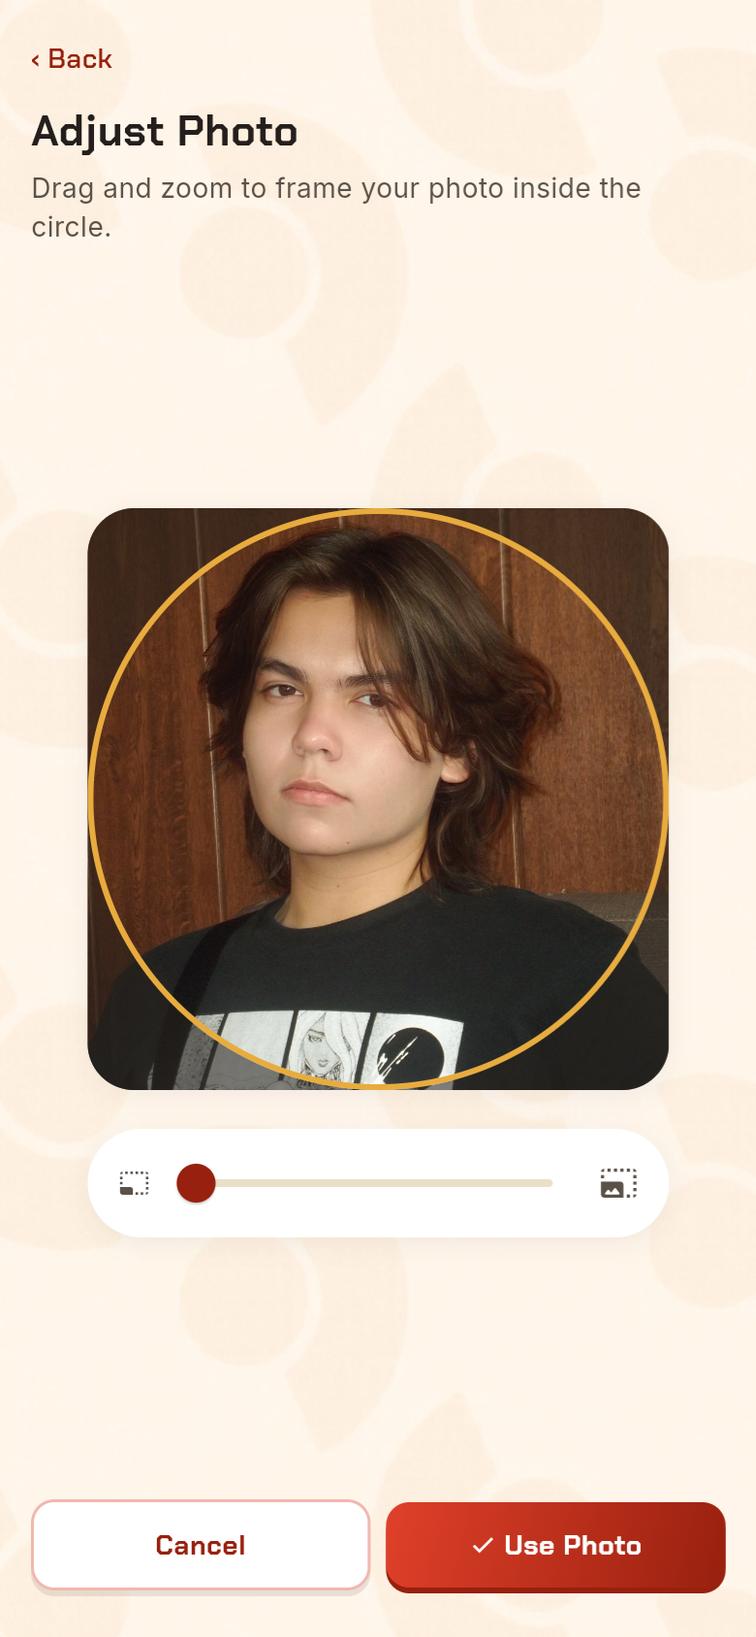
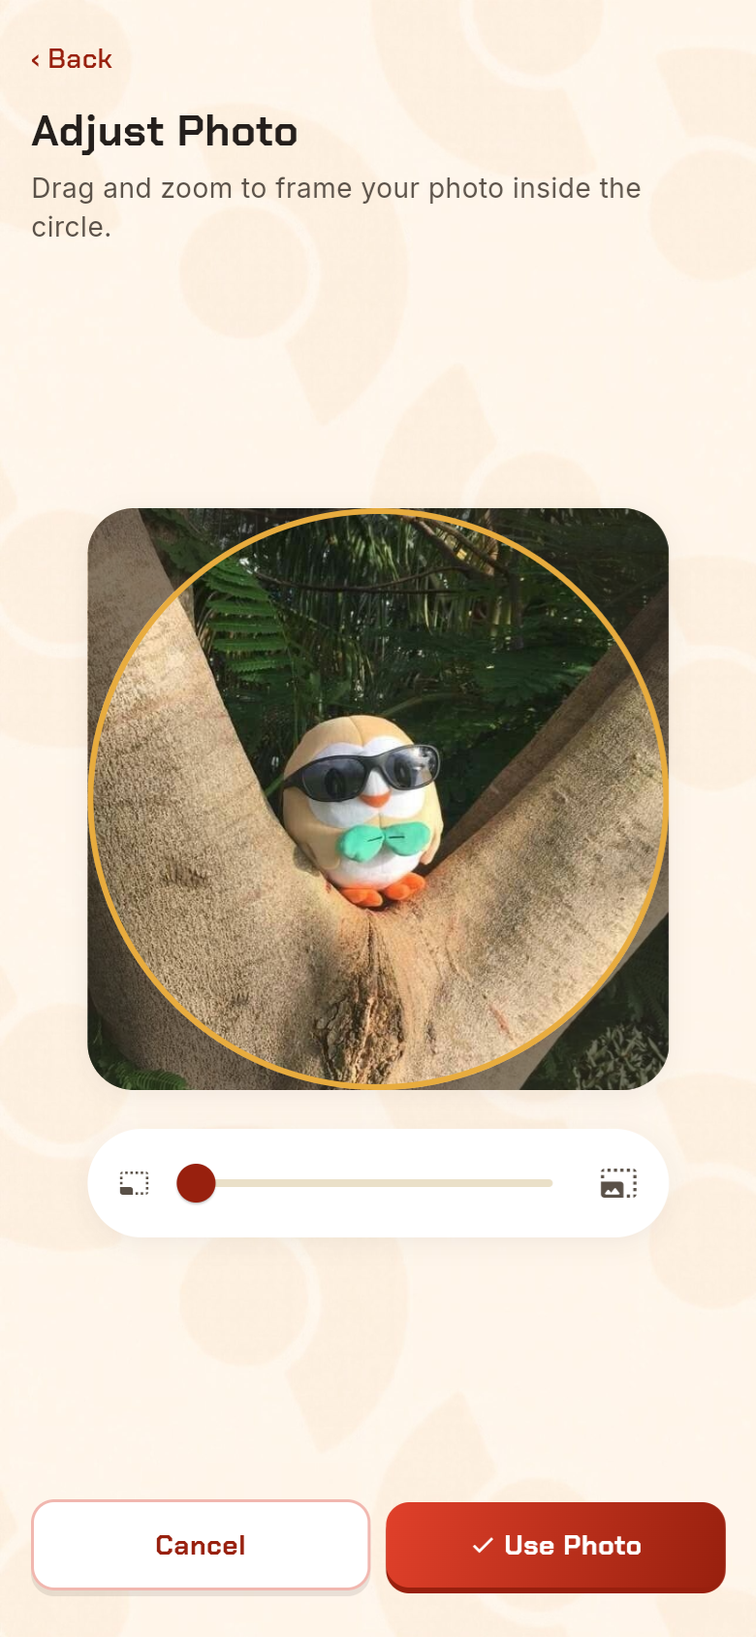
Add input length limits, fix placeholder contrast, update docs

Changed region(s): [[0.0923, 0.3081, 0.8923, 0.6777]]

diff --git a/docs/02-mockup.md b/docs/02-mockup.md
@@ -12,7 +12,7 @@ Screens opened from a bottom-navigation tab show a **‹ Back** link instead of 
 <tr><th width="260">Screen</th><th>Screen Details</th></tr>
 
 <tr>
-<td><b>01 · Login</b><br>Authentication · Wireframe page 6<br><br><img src="screenshots/01-login.png" width="240" alt="Login screen"><br><sub><a href="screenshots/01-login.png">01-login.png</a></sub></td>
+<td><b>01 · Login</b><br>Authentication · Wireframe page 6<br><br><img src="assets/screenshots/01-login.png" width="240" alt="Login screen"><br><sub><a href="assets/screenshots/01-login.png">01-login.png</a></sub></td>
 <td>
 
 **Purpose**
@@ -31,7 +31,7 @@ Shown when the app is launched while signed out, and after signing out from the 
 </tr>
 
 <tr>
-<td><b>02 · Sign Up</b><br>Authentication · Wireframe page 6<br><br><img src="screenshots/02-sign-up.png" width="240" alt="Sign Up screen"><br><sub><a href="screenshots/02-sign-up.png">02-sign-up.png</a></sub></td>
+<td><b>02 · Sign Up</b><br>Authentication · Wireframe page 6<br><br><img src="assets/screenshots/02-sign-up.png" width="240" alt="Sign Up screen"><br><sub><a href="assets/screenshots/02-sign-up.png">02-sign-up.png</a></sub></td>
 <td>
 
 **Purpose**
@@ -48,7 +48,7 @@ Reached from 01 Login through **Sign Up**.
 </tr>
 
 <tr>
-<td><b>03 · Forgot Password</b><br>Authentication · Wireframe page 6<br><br><img src="screenshots/03-forgot-password.png" width="240" alt="Forgot Password screen"><br><sub><a href="screenshots/03-forgot-password.png">03-forgot-password.png</a></sub></td>
+<td><b>03 · Forgot Password</b><br>Authentication · Wireframe page 6<br><br><img src="assets/screenshots/03-forgot-password.png" width="240" alt="Forgot Password screen"><br><sub><a href="assets/screenshots/03-forgot-password.png">03-forgot-password.png</a></sub></td>
 <td>
 
 **Purpose**
@@ -67,7 +67,7 @@ Reached only from 01 Login through **Forgot Password**.
 </tr>
 
 <tr>
-<td><b>04 · Home Dashboard</b><br>Home & Profile · Wireframe page 6<br><br><img src="screenshots/04-home-dashboard.png" width="240" alt="Home Dashboard"><br><sub><a href="screenshots/04-home-dashboard.png">04-home-dashboard.png</a></sub></td>
+<td><b>04 · Home Dashboard</b><br>Home & Profile · Wireframe page 6<br><br><img src="assets/screenshots/04-home-dashboard.png" width="240" alt="Home Dashboard"><br><sub><a href="assets/screenshots/04-home-dashboard.png">04-home-dashboard.png</a></sub></td>
 <td>
 
 **Purpose**
@@ -89,7 +89,7 @@ Reached after login or account creation. It is the Home tab and the app's landin
 </tr>
 
 <tr>
-<td><b>05 · Trainer Card (Profile)</b><br>Home & Profile · Wireframe page 6<br><br><img src="screenshots/05-trainer-card.png" width="240" alt="Trainer Card"><br><sub><a href="screenshots/05-trainer-card.png">05-trainer-card.png</a></sub></td>
+<td><b>05 · Trainer Card (Profile)</b><br>Home & Profile · Wireframe page 6<br><br><img src="assets/screenshots/05-trainer-card.png" width="240" alt="Trainer Card"><br><sub><a href="assets/screenshots/05-trainer-card.png">05-trainer-card.png</a></sub></td>
 <td>
 
 **Purpose**
@@ -107,7 +107,7 @@ Reached from the More tab or from the avatar on the Home Dashboard.
 </tr>
 
 <tr>
-<td><b>06 · Edit Trainer Card</b><br>Home & Profile · Wireframe page 6<br><br><img src="screenshots/06-edit-trainer-card.png" width="240" alt="Edit Trainer Card"><br><sub><a href="screenshots/06-edit-trainer-card.png">06-edit-trainer-card.png</a></sub></td>
+<td><b>06 · Edit Trainer Card</b><br>Home & Profile · Wireframe page 6<br><br><img src="assets/screenshots/06-edit-trainer-card.png" width="240" alt="Edit Trainer Card"><br><sub><a href="assets/screenshots/06-edit-trainer-card.png">06-edit-trainer-card.png</a></sub></td>
 <td>
 
 **Purpose**
@@ -127,7 +127,7 @@ Reached from 05 Trainer Card through **✎ Edit**.
 </tr>
 
 <tr>
-<td><b>07 · Adjust Photo</b><br>Home & Profile · New: Not in the wireframes<br><br><img src="screenshots/07-adjust-photo.png" width="240" alt="Adjust Photo"><br><sub><a href="screenshots/07-adjust-photo.png">07-adjust-photo.png</a></sub></td>
+<td><b>07 · Adjust Photo</b><br>Home & Profile · New: Not in the wireframes<br><br><img src="assets/screenshots/07-adjust-photo.png" width="240" alt="Adjust Photo"><br><sub><a href="assets/screenshots/07-adjust-photo.png">07-adjust-photo.png</a></sub></td>
 <td>
 
 **Purpose**
@@ -144,7 +144,7 @@ Reached from 06 Edit Trainer Card after choosing a photo. The photo is stored in
 </tr>
 
 <tr>
-<td><b>08 · Choose Favorite Card</b><br>Home & Profile · New: Not in the wireframes<br><br><img src="screenshots/08-choose-favorite-card.png" width="240" alt="Choose Favorite Card"><br><sub><a href="screenshots/08-choose-favorite-card.png">08-choose-favorite-card.png</a></sub></td>
+<td><b>08 · Choose Favorite Card</b><br>Home & Profile · New: Not in the wireframes<br><br><img src="assets/screenshots/08-choose-favorite-card.png" width="240" alt="Choose Favorite Card"><br><sub><a href="assets/screenshots/08-choose-favorite-card.png">08-choose-favorite-card.png</a></sub></td>
 <td>
 
 **Purpose**
@@ -161,7 +161,7 @@ Reached from **Favorite Card** on 06 Edit Trainer Card.
 </tr>
 
 <tr>
-<td><b>09 · Binders</b><br>Collection & Binders · Wireframe page 7<br><br><img src="screenshots/09-binders.png" width="240" alt="Binders"><br><sub><a href="screenshots/09-binders.png">09-binders.png</a></sub></td>
+<td><b>09 · Binders</b><br>Collection & Binders · Wireframe page 7<br><br><img src="assets/screenshots/09-binders.png" width="240" alt="Binders"><br><sub><a href="assets/screenshots/09-binders.png">09-binders.png</a></sub></td>
 <td>
 
 **Purpose**
@@ -181,7 +181,7 @@ Reached through the Binders tab, the **Binders** tile or **Continue a Binder** p
 </tr>
 
 <tr>
-<td><b>10 · Create Binder</b><br>Collection & Binders · Wireframe page 7<br><br><img src="screenshots/10-create-binder.png" width="240" alt="Create Binder"><br><sub><a href="screenshots/10-create-binder.png">10-create-binder.png</a></sub></td>
+<td><b>10 · Create Binder</b><br>Collection & Binders · Wireframe page 7<br><br><img src="assets/screenshots/10-create-binder.png" width="240" alt="Create Binder"><br><sub><a href="assets/screenshots/10-create-binder.png">10-create-binder.png</a></sub></td>
 <td>
 
 **Purpose**
@@ -199,7 +199,7 @@ Opened from 09 Binders or from **+ New Binder** on the Home Dashboard.
 </tr>
 
 <tr>
-<td><b>11 · Binder Details</b><br>Collection & Binders · New: Not in the wireframes<br><br><img src="screenshots/11-binder-details.png" width="240" alt="Binder Details"><br><sub><a href="screenshots/11-binder-details.png">11-binder-details.png</a></sub></td>
+<td><b>11 · Binder Details</b><br>Collection & Binders · New: Not in the wireframes<br><br><img src="assets/screenshots/11-binder-details.png" width="240" alt="Binder Details"><br><sub><a href="assets/screenshots/11-binder-details.png">11-binder-details.png</a></sub></td>
 <td>
 
 **Purpose**
@@ -219,7 +219,7 @@ Reached from 09 Binders after selecting a binder, or from **Continue a Binder** 
 </tr>
 
 <tr>
-<td><b>12 · Add Cards (Binder)</b><br>Collection & Binders · New: Not in the wireframes<br><br><img src="screenshots/12-add-card-binder.png" width="240" alt="Add Cards to a binder"><br><sub><a href="screenshots/12-add-card-binder.png">12-add-card-binder.png</a></sub></td>
+<td><b>12 · Add Cards (Binder)</b><br>Collection & Binders · New: Not in the wireframes<br><br><img src="assets/screenshots/12-add-card-binder.png" width="240" alt="Add Cards to a binder"><br><sub><a href="assets/screenshots/12-add-card-binder.png">12-add-card-binder.png</a></sub></td>
 <td>
 
 **Purpose**
@@ -237,7 +237,7 @@ Reached from the **Add Cards** tile on 11 Binder Details.
 </tr>
 
 <tr>
-<td><b>13 · Edit Binder</b><br>Collection & Binders · Wireframe page 7<br><br><img src="screenshots/13-edit-binder.png" width="240" alt="Edit Binder"><br><sub><a href="screenshots/13-edit-binder.png">13-edit-binder.png</a></sub></td>
+<td><b>13 · Edit Binder</b><br>Collection & Binders · Wireframe page 7<br><br><img src="assets/screenshots/13-edit-binder.png" width="240" alt="Edit Binder"><br><sub><a href="assets/screenshots/13-edit-binder.png">13-edit-binder.png</a></sub></td>
 <td>
 
 **Purpose**
@@ -254,7 +254,7 @@ Reached from **✎ Edit** on 11 Binder Details.
 </tr>
 
 <tr>
-<td><b>14 · All Cards</b><br>Collection & Binders · Wireframe page 7<br><br><img src="screenshots/14-all-cards.png" width="240" alt="All Cards"><br><sub><a href="screenshots/14-all-cards.png">14-all-cards.png</a></sub></td>
+<td><b>14 · All Cards</b><br>Collection & Binders · Wireframe page 7<br><br><img src="assets/screenshots/14-all-cards.png" width="240" alt="All Cards"><br><sub><a href="assets/screenshots/14-all-cards.png">14-all-cards.png</a></sub></td>
 <td>
 
 **Purpose**
@@ -273,7 +273,7 @@ Reached from the **Cards** tile, the search bar, or **View All** on the Home Das
 </tr>
 
 <tr>
-<td><b>15 · Card Details</b><br>Collection & Binders · Wireframe page 7<br><br><img src="screenshots/15-card-details.png" width="240" alt="Card Details"><br><sub><a href="screenshots/15-card-details.png">15-card-details.png</a></sub></td>
+<td><b>15 · Card Details</b><br>Collection & Binders · Wireframe page 7<br><br><img src="assets/screenshots/15-card-details.png" width="240" alt="Card Details"><br><sub><a href="assets/screenshots/15-card-details.png">15-card-details.png</a></sub></td>
 <td>
 
 **Purpose**
@@ -292,7 +292,7 @@ Reached from Home, Binders, Binder Details, All Cards, and the card pickers.
 </tr>
 
 <tr>
-<td><b>16 · Edit Card</b><br>Card Entry · Wireframe page 8<br><br><img src="screenshots/16-edit-card.png" width="240" alt="Edit Card"><br><sub><a href="screenshots/16-edit-card.png">16-edit-card.png</a></sub></td>
+<td><b>16 · Edit Card</b><br>Card Entry · Wireframe page 8<br><br><img src="assets/screenshots/16-edit-card.png" width="240" alt="Edit Card"><br><sub><a href="assets/screenshots/16-edit-card.png">16-edit-card.png</a></sub></td>
 <td>
 
 **Purpose**
@@ -310,7 +310,7 @@ Reached from **✎ Edit** on 15 Card Details.
 </tr>
 
 <tr>
-<td><b>17 · Add Card (Find Your Card)</b><br>Card Entry · Wireframe page 8, reworked<br><br><img src="screenshots/17-add-card.png" width="240" alt="Add Card: Find Your Card"><br><sub><a href="screenshots/17-add-card.png">17-add-card.png</a></sub></td>
+<td><b>17 · Add Card (Find Your Card)</b><br>Card Entry · Wireframe page 8, reworked<br><br><img src="assets/screenshots/17-add-card.png" width="240" alt="Add Card: Find Your Card"><br><sub><a href="assets/screenshots/17-add-card.png">17-add-card.png</a></sub></td>
 <td>
 
 **Purpose**
@@ -328,7 +328,7 @@ Reached through the raised **Add** button in the navigation bar or **+ Add a New
 </tr>
 
 <tr>
-<td><b>18 · Add to Collection</b><br>Card Entry · Wireframe page 8<br><br><img src="screenshots/18-add-to-collection.png" width="240" alt="Add to Collection"><br><sub><a href="screenshots/18-add-to-collection.png">18-add-to-collection.png</a></sub></td>
+<td><b>18 · Add to Collection</b><br>Card Entry · Wireframe page 8<br><br><img src="assets/screenshots/18-add-to-collection.png" width="240" alt="Add to Collection"><br><sub><a href="assets/screenshots/18-add-to-collection.png">18-add-to-collection.png</a></sub></td>
 <td>
 
 **Purpose**
@@ -346,7 +346,7 @@ Reached after choosing a card on 17 Add Card.
 </tr>
 
 <tr>
-<td><b>19 · Deck Planner</b><br>Deck Planner · Wireframe page 8<br><br><img src="screenshots/19-deck-planner.png" width="240" alt="Deck Planner"><br><sub><a href="screenshots/19-deck-planner.png">19-deck-planner.png</a></sub></td>
+<td><b>19 · Deck Planner</b><br>Deck Planner · Wireframe page 8<br><br><img src="assets/screenshots/19-deck-planner.png" width="240" alt="Deck Planner"><br><sub><a href="assets/screenshots/19-deck-planner.png">19-deck-planner.png</a></sub></td>
 <td>
 
 **Purpose**
@@ -364,7 +364,7 @@ Reached through the Decks tab or opened directly from a Home Dashboard shortcut.
 </tr>
 
 <tr>
-<td><b>20 · Create Deck</b><br>Deck Planner · Wireframe page 8<br><br><img src="screenshots/20-create-deck.png" width="240" alt="Create Deck"><br><sub><a href="screenshots/20-create-deck.png">20-create-deck.png</a></sub></td>
+<td><b>20 · Create Deck</b><br>Deck Planner · Wireframe page 8<br><br><img src="assets/screenshots/20-create-deck.png" width="240" alt="Create Deck"><br><sub><a href="assets/screenshots/20-create-deck.png">20-create-deck.png</a></sub></td>
 <td>
 
 **Purpose**
@@ -380,7 +380,7 @@ Reached from 19 Deck Planner, **+ New Deck** on the Home Dashboard, or when addi
 </tr>
 
 <tr>
-<td><b>21 · Deck Details</b><br>Deck Planner · New: Not in the wireframes<br><br><img src="screenshots/21-deck-details.png" width="240" alt="Deck Details"><br><sub><a href="screenshots/21-deck-details.png">21-deck-details.png</a></sub></td>
+<td><b>21 · Deck Details</b><br>Deck Planner · New: Not in the wireframes<br><br><img src="assets/screenshots/21-deck-details.png" width="240" alt="Deck Details"><br><sub><a href="assets/screenshots/21-deck-details.png">21-deck-details.png</a></sub></td>
 <td>
 
 **Purpose**
@@ -399,7 +399,7 @@ Reached from 19 Deck Planner after selecting or creating a deck.
 </tr>
 
 <tr>
-<td><b>22 · Add Cards (Deck)</b><br>Deck Planner · New: Not in the wireframes<br><br><img src="screenshots/22-add-card-deck.png" width="240" alt="Add Cards to a deck"><br><sub><a href="screenshots/22-add-card-deck.png">22-add-card-deck.png</a></sub></td>
+<td><b>22 · Add Cards (Deck)</b><br>Deck Planner · New: Not in the wireframes<br><br><img src="assets/screenshots/22-add-card-deck.png" width="240" alt="Add Cards to a deck"><br><sub><a href="assets/screenshots/22-add-card-deck.png">22-add-card-deck.png</a></sub></td>
 <td>
 
 **Purpose**
@@ -415,7 +415,7 @@ Reached from **+ Add Card** on 21 Deck Details.
 </tr>
 
 <tr>
-<td><b>23 · More</b><br>More · Wireframe page 8<br><br><img src="screenshots/23-more.png" width="240" alt="More"><br><sub><a href="screenshots/23-more.png">23-more.png</a></sub></td>
+<td><b>23 · More</b><br>More · Wireframe page 8<br><br><img src="assets/screenshots/23-more.png" width="240" alt="More"><br><sub><a href="assets/screenshots/23-more.png">23-more.png</a></sub></td>
 <td>
 
 **Purpose**
@@ -434,7 +434,7 @@ Reached through the More tab.
 </tr>
 
 <tr>
-<td><b>24 · Collection Statistics</b><br>More · Wireframe page 9<br><br><img src="screenshots/24-collection-statistics.png" width="240" alt="Collection Statistics"><br><sub><a href="screenshots/24-collection-statistics.png">24-collection-statistics.png</a></sub></td>
+<td><b>24 · Collection Statistics</b><br>More · Wireframe page 9<br><br><img src="assets/screenshots/24-collection-statistics.png" width="240" alt="Collection Statistics"><br><sub><a href="assets/screenshots/24-collection-statistics.png">24-collection-statistics.png</a></sub></td>
 <td>
 
 **Purpose**
@@ -451,7 +451,7 @@ Reached from 23 More or from the **Value** tile on the Home Dashboard.
 </tr>
 
 <tr>
-<td><b>25 · Wishlist</b><br>More · Wireframe page 9<br><br><img src="screenshots/25-wishlist.png" width="240" alt="Wishlist"><br><sub><a href="screenshots/25-wishlist.png">25-wishlist.png</a></sub></td>
+<td><b>25 · Wishlist</b><br>More · Wireframe page 9<br><br><img src="assets/screenshots/25-wishlist.png" width="240" alt="Wishlist"><br><sub><a href="assets/screenshots/25-wishlist.png">25-wishlist.png</a></sub></td>
 <td>
 
 **Purpose**
@@ -471,7 +471,7 @@ Reached from **Wishlist & Trade List** on 23 More.
 </tr>
 
 <tr>
-<td><b>26 · Add Card (Wishlist)</b><br>More · Wireframe page 9, reworked<br><br><img src="screenshots/26-add-card-wishlist.png" width="240" alt="Add Card to Wishlist"><br><sub><a href="screenshots/26-add-card-wishlist.png">26-add-card-wishlist.png</a></sub></td>
+<td><b>26 · Add Card (Wishlist)</b><br>More · Wireframe page 9, reworked<br><br><img src="assets/screenshots/26-add-card-wishlist.png" width="240" alt="Add Card to Wishlist"><br><sub><a href="assets/screenshots/26-add-card-wishlist.png">26-add-card-wishlist.png</a></sub></td>
 <td>
 
 **Purpose**
@@ -488,7 +488,7 @@ Reached from **+ Add to Wishlist** on 25 Wishlist.
 </tr>
 
 <tr>
-<td><b>27 · Edit Wishlist Card</b><br>More · New: Not in the wireframes<br><br><img src="screenshots/27-edit-wishlist-card.png" width="240" alt="Edit Wishlist Card"><br><sub><a href="screenshots/27-edit-wishlist-card.png">27-edit-wishlist-card.png</a></sub></td>
+<td><b>27 · Edit Wishlist Card</b><br>More · New: Not in the wireframes<br><br><img src="assets/screenshots/27-edit-wishlist-card.png" width="240" alt="Edit Wishlist Card"><br><sub><a href="assets/screenshots/27-edit-wishlist-card.png">27-edit-wishlist-card.png</a></sub></td>
 <td>
 
 **Purpose**
@@ -505,7 +505,7 @@ Reached by selecting an entry on 25 Wishlist.
 </tr>
 
 <tr>
-<td><b>28 · Trade List</b><br>More · Wireframe page 9<br><br><img src="screenshots/28-trade-list.png" width="240" alt="Trade List"><br><sub><a href="screenshots/28-trade-list.png">28-trade-list.png</a></sub></td>
+<td><b>28 · Trade List</b><br>More · Wireframe page 9<br><br><img src="assets/screenshots/28-trade-list.png" width="240" alt="Trade List"><br><sub><a href="assets/screenshots/28-trade-list.png">28-trade-list.png</a></sub></td>
 <td>
 
 **Purpose**
@@ -525,7 +525,7 @@ Reached by switching tabs from 25 Wishlist.
 </tr>
 
 <tr>
-<td><b>29 · Add Cards (Trade List)</b><br>More · New: Not in the wireframes<br><br><img src="screenshots/29-add-card-trade-list.png" width="240" alt="Add Cards to the Trade List"><br><sub><a href="screenshots/29-add-card-trade-list.png">29-add-card-trade-list.png</a></sub></td>
+<td><b>29 · Add Cards (Trade List)</b><br>More · New: Not in the wireframes<br><br><img src="assets/screenshots/29-add-card-trade-list.png" width="240" alt="Add Cards to the Trade List"><br><sub><a href="assets/screenshots/29-add-card-trade-list.png">29-add-card-trade-list.png</a></sub></td>
 <td>
 
 **Purpose**
@@ -541,7 +541,7 @@ Reached from **+ Add to Trade List** on 28 Trade List.
 </tr>
 
 <tr>
-<td><b>30 · Edit Trade Entry</b><br>More · Wireframe page 9<br><br><img src="screenshots/30-edit-trade-list-card.png" width="240" alt="Edit Trade Entry"><br><sub><a href="screenshots/30-edit-trade-list-card.png">30-edit-trade-list-card.png</a></sub></td>
+<td><b>30 · Edit Trade Entry</b><br>More · Wireframe page 9<br><br><img src="assets/screenshots/30-edit-trade-list-card.png" width="240" alt="Edit Trade Entry"><br><sub><a href="assets/screenshots/30-edit-trade-list-card.png">30-edit-trade-list-card.png</a></sub></td>
 <td>
 
 **Purpose**
@@ -558,7 +558,7 @@ Reached by selecting an entry on 28 Trade List.
 </tr>
 
 <tr>
-<td><b>31 · Sound & Music</b><br>More · New: Not in the wireframes<br><br><img src="screenshots/31-sound-and-music.png" width="240" alt="Sound & Music"><br><sub><a href="screenshots/31-sound-and-music.png">31-sound-and-music.png</a></sub></td>
+<td><b>31 · Sound & Music</b><br>More · New: Not in the wireframes<br><br><img src="assets/screenshots/31-sound-and-music.png" width="240" alt="Sound & Music"><br><sub><a href="assets/screenshots/31-sound-and-music.png">31-sound-and-music.png</a></sub></td>
 <td>
 
 **Purpose**
@@ -583,13 +583,13 @@ The main user journey is finding a card, adding it to the collection, placing it
 
 | Step | Screen | Screenshot |
 | --- | --- | --- |
-| 1 | 01 · Login | <img src="screenshots/01-login.png" width="140" alt="Login"> |
-| 2 | 04 · Home Dashboard | <img src="screenshots/04-home-dashboard.png" width="140" alt="Home Dashboard"> |
-| 3 | 17 · Add Card (Find Your Card) | <img src="screenshots/17-add-card.png" width="140" alt="Find Your Card"> |
-| 4 | 18 · Add to Collection | <img src="screenshots/18-add-to-collection.png" width="140" alt="Add to Collection"> |
-| 5 | 09 · Binders | <img src="screenshots/09-binders.png" width="140" alt="Binders"> |
-| 6 | 11 · Binder Details | <img src="screenshots/11-binder-details.png" width="140" alt="Binder Details"> |
-| 7 | 15 · Card Details | <img src="screenshots/15-card-details.png" width="140" alt="Card Details"> |
+| 1 | 01 · Login | <img src="assets/screenshots/01-login.png" width="140" alt="Login"> |
+| 2 | 04 · Home Dashboard | <img src="assets/screenshots/04-home-dashboard.png" width="140" alt="Home Dashboard"> |
+| 3 | 17 · Add Card (Find Your Card) | <img src="assets/screenshots/17-add-card.png" width="140" alt="Find Your Card"> |
+| 4 | 18 · Add to Collection | <img src="assets/screenshots/18-add-to-collection.png" width="140" alt="Add to Collection"> |
+| 5 | 09 · Binders | <img src="assets/screenshots/09-binders.png" width="140" alt="Binders"> |
+| 6 | 11 · Binder Details | <img src="assets/screenshots/11-binder-details.png" width="140" alt="Binder Details"> |
+| 7 | 15 · Card Details | <img src="assets/screenshots/15-card-details.png" width="140" alt="Card Details"> |
 
 The wireframe sanity check originally described this journey as scan, confirm, add to binder, then find the card again. Since the scanner was removed (see below), the first half of the journey is now: search the catalog, confirm the details in Add to Collection, and save. The user then opens a binder and finds the card again through Binder Details and Card Details.
 
@@ -601,7 +601,7 @@ This section outlines the changes between the original mockup, which consisted o
 
 | Screen or Element | PDF Mockup | Current App (This Version) | Why It Changed |
 | --- | --- | --- | --- |
-| Screen count and numbering | 29 screens, numbered 01 to 29 (01 Login, 02 Forgot Password, 03 Sign Up, and so on). | 31 screens, numbered to match the files in `docs/screenshots/`. Sign Up is now 02 and Forgot Password is 03. | The screenshots are the source of truth, so numbers and filenames now line up. |
+| Screen count and numbering | 29 screens, numbered 01 to 29 (01 Login, 02 Forgot Password, 03 Sign Up, and so on). | 31 screens, numbered to match the files in `docs/assets/screenshots/`. Sign Up is now 02 and Forgot Password is 03. | The screenshots are the source of truth, so numbers and filenames now line up. |
 | Card Scanner (15) and Confirm Card (16) | Camera viewfinder with a **Capture** button, a **Recent Scans** list, and a confirmation screen before saving. | **Removed.** Replaced by 17 Add Card (Find Your Card), a searchable catalog, and 18 Add to Collection. | The scanner was only a simulated demo and was removed on Oct 4. Catalog search gets a correct card into the collection without a camera and works in a browser. |
 | Bottom Navigation Bar | Raised **Scan** button. | Tabs are Home, Binders, **Add**, Decks, More. The raised button is now **Add**. | Scanning no longer exists. |
 | 01 Login | Gold "PB" monogram, Google and Apple sign-in buttons, Forgot Password above Log In. | Pokéball emblem, email and password only (no Google or Apple), Forgot Password above Log In, plus a speaker button to mute sound. | Social sign-in was not built. Sound control was added for the login screens. |

diff --git a/docs/03-design-system.md b/docs/03-design-system.md
@@ -8,6 +8,8 @@ PokéBinder's look is defined in one place, [`lib/theme/pokebinder_theme.dart`](
 - **Material 3**, with `ColorScheme.fromSeed()` seeded from `PokeBinderColors.red`, plus the named colors below used directly in the UI.
 - **Fonts:** Chakra Petch for UI (headings, labels, buttons, tabs, chips, card captions) and Inter for body text, loaded with `google_fonts`. The font files are bundled in `assets/google_fonts/`.
 
+![PokéBinder design system: palette, gradients, type scale, spacing, contrast checks and sample controls](assets/design-system.png)
+
 ## Palette
 
 | Role | Name in code | Hex | Used for |
@@ -94,6 +96,10 @@ Presets: `PokeBinderSpacing.page` (16 / 16 / 16 / 24 left, top, right, bottom) a
 **Theme-level styles** (in `PokeBinderTheme.light()`): dialogs use the cream background with 16 px corners; text buttons use deep red; snackbars are floating, 18 px rounded, ink background with white Chakra Petch text; ink splashes use `SoundSplashFactory` so every tap ticks.
 
 ## Components
+
+![Components in use: reusable widgets from lib/widgets/ shown in the running app](assets/components.png)
+
+_The sheet above was captured before the placeholder color was darkened to `#6F6457` (see Palette), so its placeholder text still shows the old, lighter `#A89C86`. Retake it to update._
 
 Reusable widgets in `lib/widgets/`. Parameters are the constructor fields; "Appears on" lists the screens that use the widget.
 

diff --git a/README.md b/README.md
@@ -100,7 +100,7 @@ Screenshots (all 31 screens are in [docs/02-mockup.md](docs/02-mockup.md)):
 
 | Home | Binder | Card details | Deck details |
 | --- | --- | --- | --- |
-| <img src="docs/screenshots/04-home-dashboard.png" width="180" alt="Home dashboard"> | <img src="docs/screenshots/11-binder-details.png" width="180" alt="Binder details"> | <img src="docs/screenshots/15-card-details.png" width="180" alt="Card details with 3D card"> | <img src="docs/screenshots/21-deck-details.png" width="180" alt="Deck details"> |
+| <img src="docs/assets/screenshots/04-home-dashboard.png" width="180" alt="Home dashboard"> | <img src="docs/assets/screenshots/11-binder-details.png" width="180" alt="Binder details"> | <img src="docs/assets/screenshots/15-card-details.png" width="180" alt="Card details with 3D card"> | <img src="docs/assets/screenshots/21-deck-details.png" width="180" alt="Deck details"> |
 
 ## Status and what is next
 

diff --git a/docs/06-security-and-privacy.md b/docs/06-security-and-privacy.md
@@ -154,7 +154,7 @@ own test account.
 - [x] No service account file, keystore or `service_role` key anywhere in the repo
 - [x] Security rules or RLS policies written and tested, not left open
 - [ ] No real personal data in sample data, screenshots or the video
-  (not met yet: `docs/screenshots/07-adjust-photo.png` shows a real person's
+  (not met yet: `docs/assets/screenshots/07-adjust-photo.png` shows a real person's
   photo. Replace it with a non-identifying image, or confirm the person agreed
   to it being public, and check the demo video too.)
 - [x] No course or university credentials anywhere
